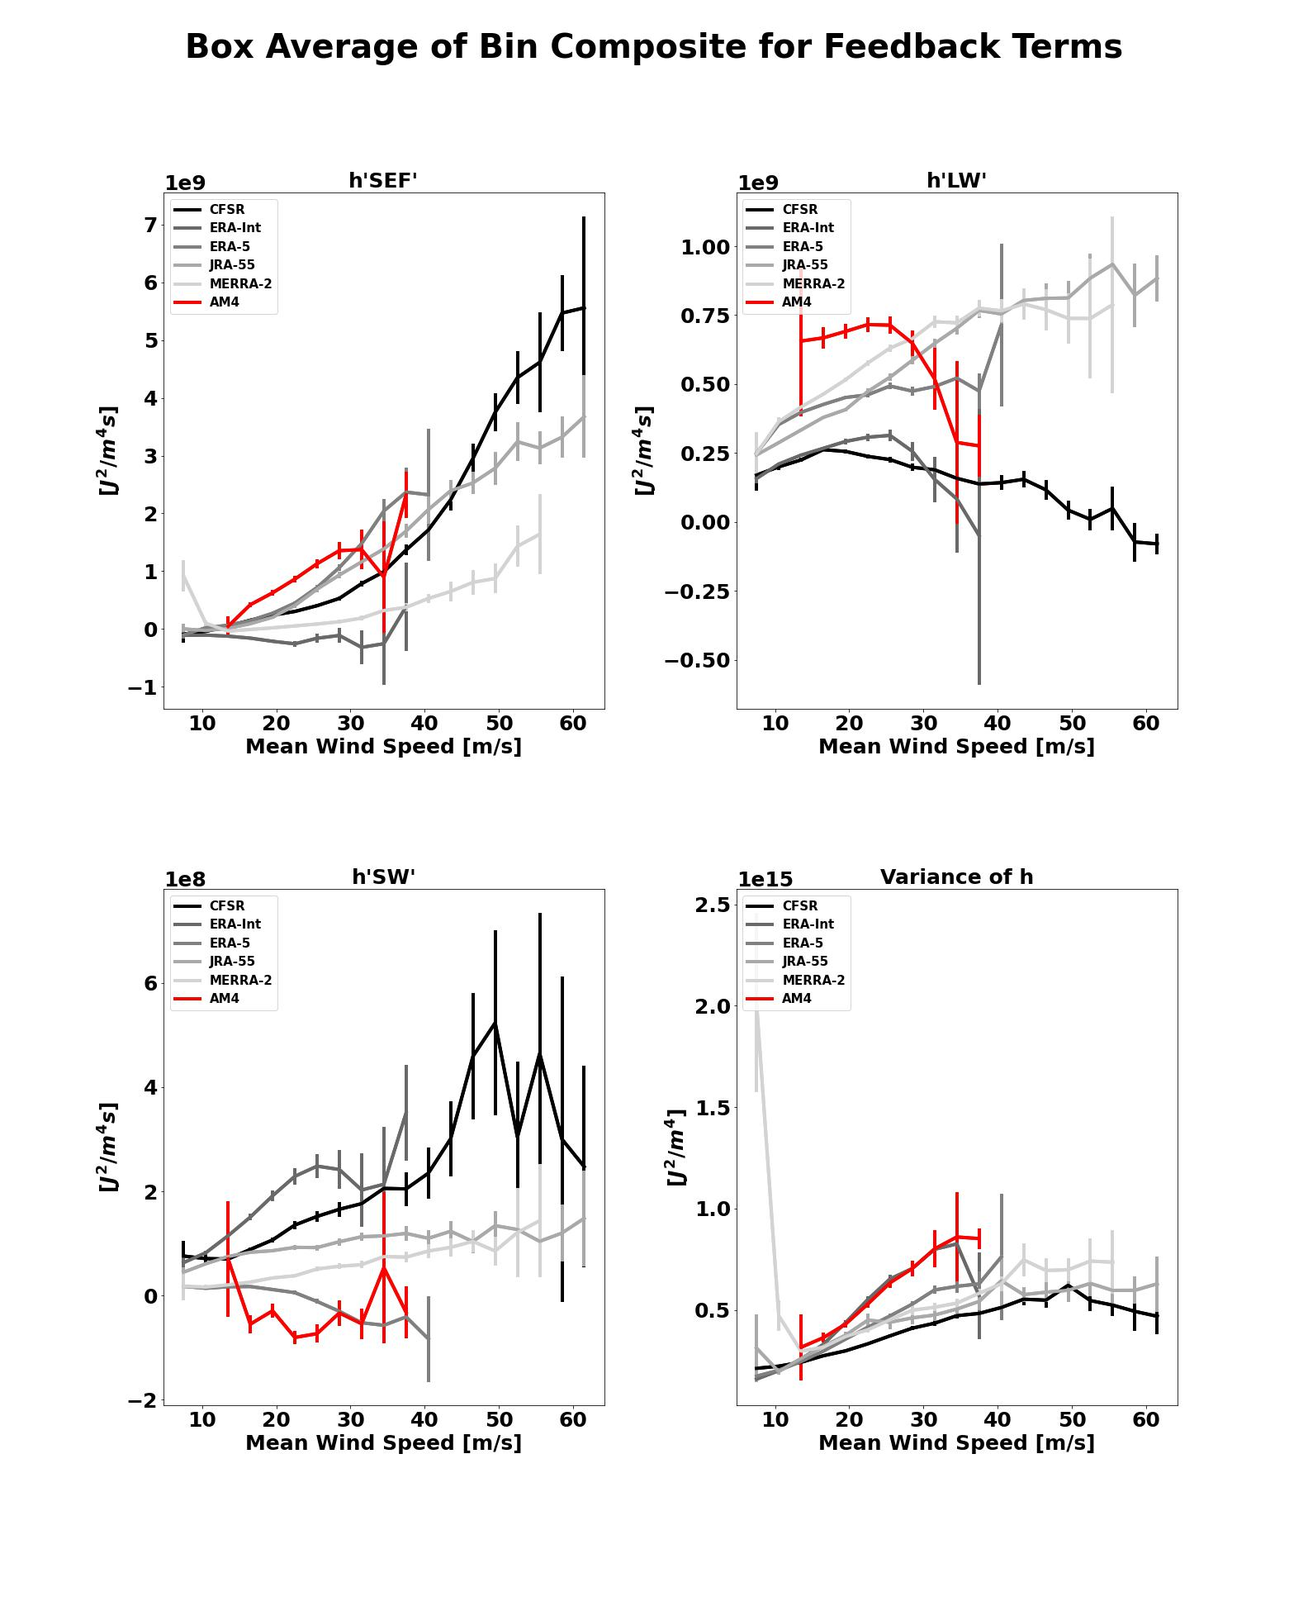
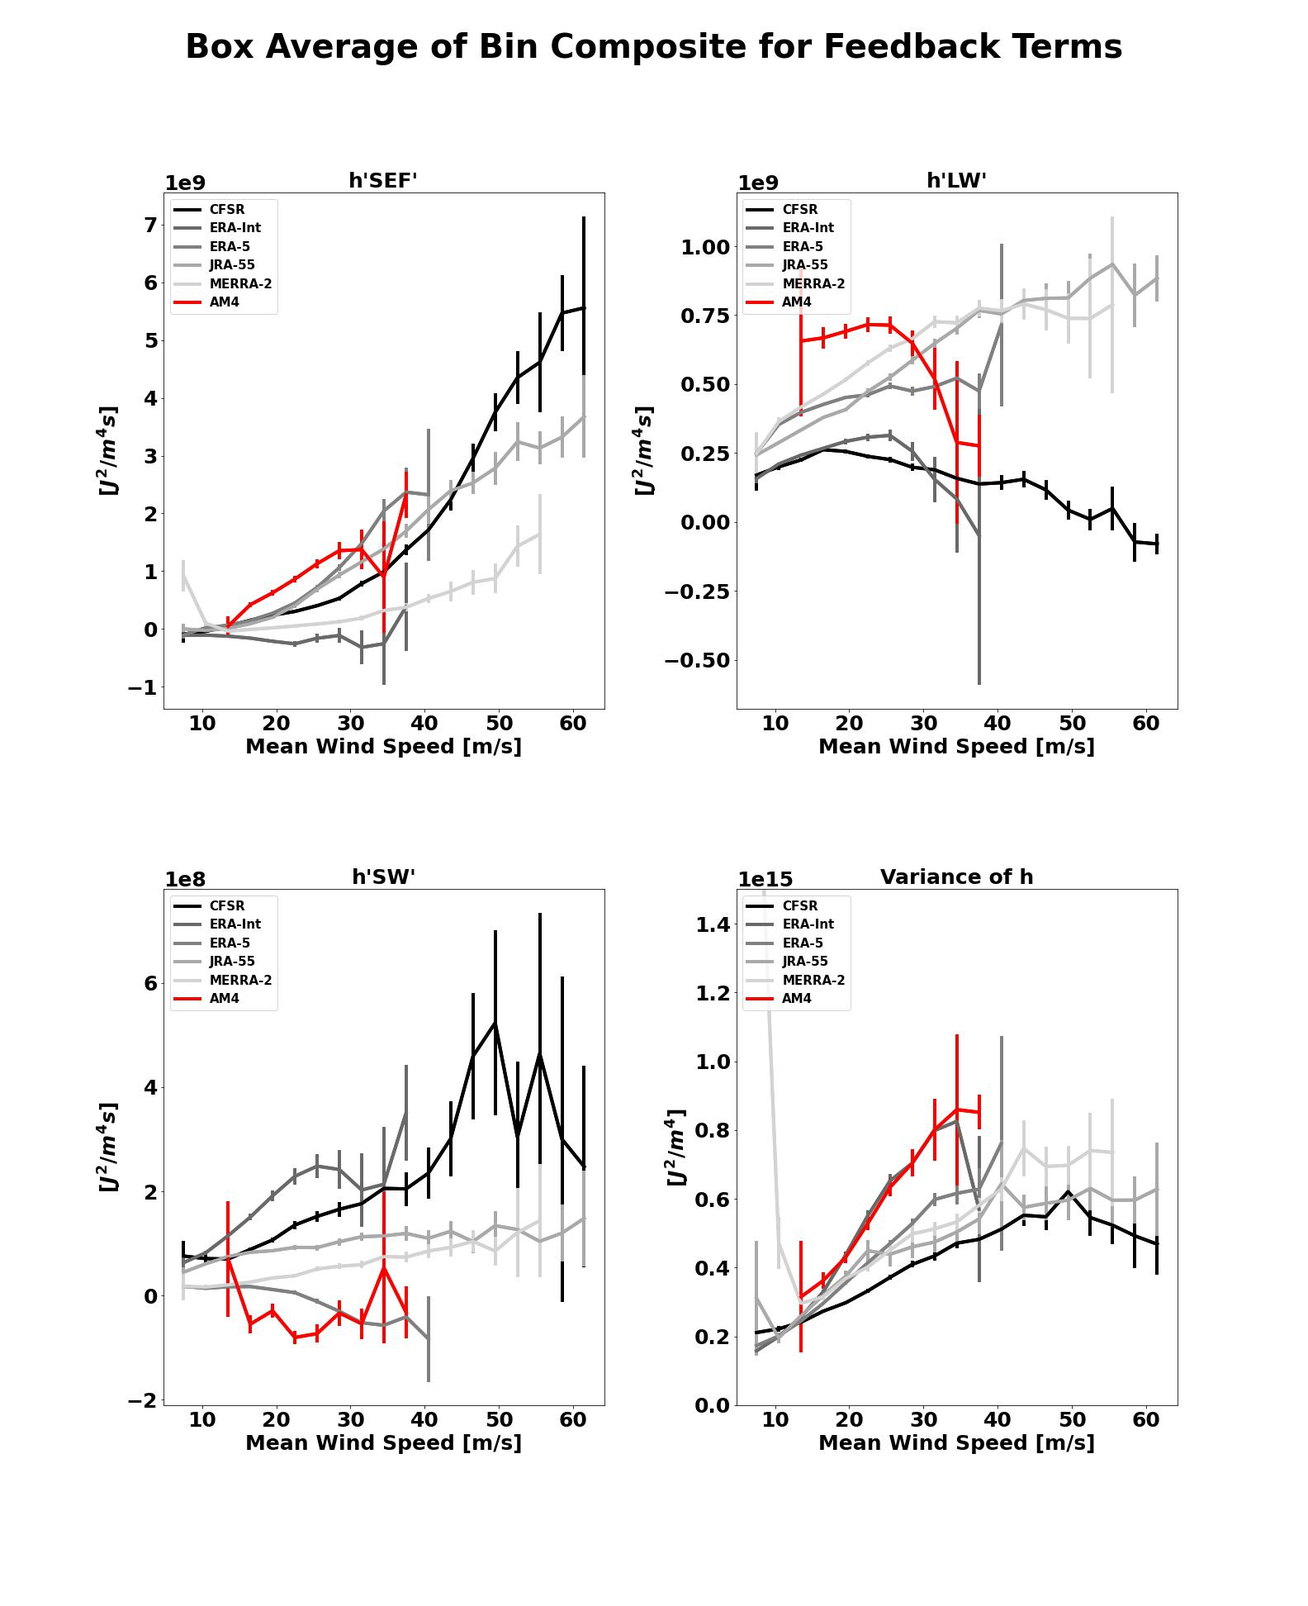
Updated .rst, plot function, and .rst jpg image

diff --git a/diagnostics/TC_MSE/Plotting_Functions.py b/diagnostics/TC_MSE/Plotting_Functions.py
@@ -568,6 +568,8 @@ def BoxAvLinePlotting():
             ax.set_title(titlevar, fontweight='bold', fontsize=25)
             ax.set_ylabel(units,fontweight='bold',fontsize=25)
             ax.set_xlabel('Mean Wind Speed [m/s]',fontweight='bold', fontsize=25)
+            if(titlevar=="Variance of h"):
+                ax.set_ylim(0,1.5e+15)
             ax.tick_params(labelsize=25)
             ax.yaxis.get_offset_text().set_fontsize(25)
 

diff --git a/diagnostics/TC_MSE/doc/TC_MSE.rst b/diagnostics/TC_MSE/doc/TC_MSE.rst
@@ -11,18 +11,16 @@
 TC MSE Variance Budget Analysis
 ===============================
 
-Last Update: 2/16/2023
+Last Update: 2/22/2023
 
-This POD computes the column-integrated mosit static energy (MSE) and its variance budget for
-TC snapshots which are generated using track data. These model snapshots are then composited and compared 
-to 5 reanalysis datasets which the same above computations have also been completed prior.
+This POD computes the column-integrated moist static energy (MSE) and terms in the budget for its spatial variance for tropical cyclones (TCs). The budget terms are computed along the tracks of individual simulated TCs and them composited as a function of the TC intensity (maximum near-surface wind speed) of each snapshot. The results are compared to equivalent calculations from 5 reanalysis datasets.
 
 .. Underline with '-'s to make a second-level heading.
 
 Version & Contact info
 ----------------------
 
-- Version/revision information: version 1 (2/16/2023)
+- Version/revision information: version 1 (2/22/2023)
 - PI: Allison Wing, Florida State University, awing@fsu.edu
 - Developer/point of contact: Jarrett Starr, Florida State University, jstarr2@fsu.edu
 - Other Contributors: Caitlin Dirkes, Suzana Camargo, Daehyun Kim
@@ -33,32 +31,22 @@ Open source copyright agreement
 ^^^^^^^^^^^^^^^^^^^^^^^^^^^^^^^
 
 The MDTF framework is distributed under the LGPLv3 license (see LICENSE.txt). 
-Unless you've distributed your script elsewhere, you don't need to change this.
+.. Unless you've distributed your script elsewhere, you don't need to change this.
 
 Functionality
 -------------
 
-Track data is read in as a .txt file to gather the center latitude and longitude position, maximum velocity (vmax), minimum sea leavel pressure, 
-and the date at each timestep. Once the track data is read in, it is then used to create tropical cyclone (TC) snapshots following the storm in 
-a 10 degree by 10 degree box. Each snapshot then has the column-integrated moist static energy (MSE) calculated as well as the longwave, shortwave,
-and surface flux feedbacks in the MSE variance budget equation. Then, the snapshots are trimmed to only account for times where the TC is intensifying
-and is equatorward of 30 degrees. The remaining snapshots are then binned by vmax in 3 meter per second bins and box-averaged values of each snapshot are 
-calculated. These binned snapshots and their box averages are composited across the bins. The composites are then used for analysis comparing to 5 reanalysis 
-datasets (ERA-5, ERA-Interim, MERRA-2, CFSR, JRA-55) which have already been run through the above framework. Plots of the composite spatial view of feedback 
-terms and anomaly of MSE for select bins are made for each reanalysis and model. The composite spatial views are azimuthally-averaged and plotted comparing across 
-different bins for each feedback term. The bin composites of box-averaged feedbacks are compared across the various vmax bins, which a feedback-normalized 
-version of this plot is made as well. The bin composites of box-averaged feedbacks are also scattered by percent of storms intensifying from one bin to another,
-which again a feedback-normalized version of this plot is also created.
+In the current implementation of the POD, pre-calcluated tropical cyclone (TC) track data is also required as an input to the POD as obs data. The POD is currently written to accept track data as a formatted .txt file. The code extracts the TC center latitude and longitude, maximum near surface wind speed (vmax), and minimum sea level pressure at each time along the track of each storm. The code then extracts the necessary variables to compute the column-integrated moist static energy (MSE) and the longwave, shortwave, and surface flux feedbacks in the budget for the spatial variance of column-integrated MSE, in 10 x 10 degree boxes along the tracks of each TC. Then, the snapshots are trimmed to only account for times where the TC is intensifying (snapshots prior to each storms lifetime maximum intensity) and is equatorward of 30 degrees. The remaining TC snapshots are then binned by vmax in 3 m/s increment, and then composited over each bin. The model composites are then compared to 5 reanalysis 
+datasets (ERA-5, ERA-Interim, MERRA-2, CFSR, JRA-55) which have already been processed through the above framework. The plots include composite TC-relative spatial maps of the feedback terms and MSE anomaly for select bins, azimuthal averages of the feedback terms for select bins, and box-averages of the feedback terms for all bins. A normalized version of the box-average plot is also included, in which the feedbacks at each grid point are normalized by the value of the box-average MSE variance for that snapshot. The normalization is performed prior to compositing. Finally, the box-averaged feedbacks and normalized box-averaged feedbacks in select bins are plotted against the percent of storms intensifying from one bin to another.
 
 When and how each of the scripts are utilized in the driver script (TC_MSE_Driver.py) is as follows:
 
-1. TC_snapshot_MSE_calc.py is called which is where the snapshotting of each TC timestep is done along with the afromentioned calculations
-and files are created and saved by year.
+1. TC_snapshot_MSE_calc.py is called first to extract the data and compute the MSE varaince budget along the tracks of all the TCs. The resulting data is saved into a file for each year. 
 
 2. Binning_and_compositing.py is called which takes all of the files that were created in step 1, concatenates them, and then bins as well as composites each
 of the snapshots and its variables by vmax. The budget variables are also box-averaged and normalized in this step as well.
 
-3. Plotting.py is called which imports all of the plotting functions that are in the Plotting_Functions.py script and generates then saves the plots that are 
+3. Plotting.py is called which imports all of the plotting functions that are in the Plotting_Functions.py script and generates and saves the plots that are 
 desired. The user may comment out any of the plotting functions that are called in the Plotting.py script they do not want. 
 
 Required programming language and libraries
@@ -75,21 +63,25 @@ The following 3-D (time-lat-lon) and 4-D (time-plev-lat-lon) variables are requi
 
 3-D Variables:
 
-Surface Downwelling LW Flux in Air, Units: W m-2, Frequency: 6-hourly
-Surface Downwelling SW Flux in Air, Units: W m-2, Frequency: 6-hourly
-Surface Upwelling LW Flux in Air, Units: W m-2, Frequency: 6-hourly
-Surface Upwelling SW Flux in Air, Units: W m-2, Frequency: 6-hourly
+Surface Downwelling Longwave Flux in Air, Units: W m-2, Frequency: 6-hourly 
+Surface Downwelling Shortwave Flux in Air, Units: W m-2, Frequency: 6-hourly
+Surface Upwelling Longwave Flux in Air, Units: W m-2, Frequency: 6-hourly
+Surface Upwelling Shortwave Flux in Air, Units: W m-2, Frequency: 6-hourly
 Surface Upward Latent Heat Flux, Units: W m-2, Frequency: 6-hourly
 Surface Upward Sensible Heat Flux, Units: W m-2, Frequency: 6-hourly
-Top of Atmosphere Outgoing LW Flux, Units: W m-2, Frequency: 6-hourly
-Top of Atmosphere Outgoing SW Flux, Units: W m-2, Frequency: 6-hourly
-Top of Atmosphere Incoming SW Flux, Units: W m-2, Frequency: 6-hourly
+Top of Atmosphere Outgoing Longwave Flux, Units: W m-2, Frequency: 6-hourly
+Top of Atmosphere Outgoing Shortwave Flux, Units: W m-2, Frequency: 6-hourly
+Top of Atmosphere Incoming Shortwave Flux, Units: W m-2, Frequency: 6-hourly
 
 4-D Variables:
 
-Air Temperature, Units: K, Frequency: 6-hourly
-Geopotential Height, Units: m, Frequency: 6-hourly
-Specific Humidity, Units: 1.0, Frequency: 6-hourly
+Air Temperature, Units: K, Frequency: 6-hourly instantaneous
+Geopotential Height, Units: m, Frequency: 6-hourly instantaneous
+Specific Humidity, Units: g g-1, Frequency: 6-hourly instantaneous
+
+In order to have sufficient samples, we recommend enough years of data to have at least 100 TCs, which is typically 2-5 years of simulation time depending on the resolution of the model.
+
+In the current implementation of the POD, pre-calcluated TC track data is also required as an input to the POD as obs data. If future versions incorporate TC tracking directly, additional model output variables will be required.
 
 References
 ----------
@@ -104,45 +96,23 @@ energy variance budget, Journal of Climate (In review).
 More about this diagnostic
 --------------------------
 
-The MSE variance budget has been shown in Wing et al. (2019) to play an important role in the development of TCs. The MSE variance budget equation is shown below:
+The MSE variance budget has been shown to capture the role of important physical processes in the development of TCs (Wing et al. 2016; Wing et al. 2019; Wing 2022). A budget for the spatial variance of column-integated MSE is given by:
 
 .. math::
 
    \frac{1}{2}\frac{\partial \hat{h}'^2}{\partial t} = \hat{h}' F'_{k} + \hat{h}' N'_{L} + \hat{h}' N'_{S} - \hat{h}'(\widehat{\vec{u}\cdot \nabla  h})'.
 
-There are three diabatic feedback terms (on the RHS) which from left to right are the surface flux, longwave, and shortwave feedback respectively. The far right 
-feedback is the advective term which we do not calculate in the framework as we focus on the three diabatic terms only. Each of the feedback terms are considered 
-sources and sinks of MSE variance. The prime notation indicates the anomaly from the box average value of the given variable. For example, each 10 by 10 degree 
-snapshot has column-integrated MSE (:math:`\hat{h}`) calculated at each grid box in the snapshot. To get the anomaly you take the box average of the snapshot and 
-take the difference between the snapshot's box average value of column-integrated MSE and the column-integrated MSE at each grid box. Anomalies are also computed 
-for the surface enthalpy flux (:math:`F'_{k}`), column longwave radiative flux convergence (:math:`N'_{L}`), and the column shortwave radiative flux 
-convergence (:math:`N'_{S}`). When these flux anomalies are multiplied by the column-integrated MSE anomaly, we then have our full diabatic feedback terms which 
-tell us the sources and sinks of MSE variance. 
+The hat notation indicates a mass-weighted column integral. There are three diabatic feedback terms (on the RHS) which from left to right are the surface flux, longwave, and shortwave feedback respectively. The far right feedback is the advective term which we do not calculate in this POD as we focus on the three diabatic terms only. Each of the feedback terms are considered sources and sinks of MSE variance. The prime notation indicates the anomaly from the average value of the given variable over a box centered on the TC. For example, for each snapshot along the track of each TC, the column-integrated MSE (:math:`\hat{h}`) is calculated as the anomaly of the column-integrated MSE at each grid point within a 10 x 10 degree box centered on the TC from its cosine-latitude weighted mean over that box. Anomalies are also computed for each of the diabatic sources and sinks of column-integrated MSE: surface enthalpy flux (:math:`F'_{k}`), column longwave radiative flux convergence (:math:`N'_{L}`), and the column shortwave radiative flux convergence (:math:`N'_{S}`).  
 
-Sources of MSE variance are seen when a feedback term is positive, or when the moist regions get more moist and dry regions get more dry. Sinks of MSE variance 
-are seen when a feedback term is negative, or in the case where dry regions are being moistened and moist regions are being dried. In the areas closest to the TC 
-center, anomalies of column-integrated MSE will tend to be above the box average value giving a positive value of :math:`\hat{h}'`. In the event that a model or 
-reanalysis has the ability to detect an eye-like feature for a TC, the winds will be more calm in the center giving rise to a smaller surface enthalpy flux and a 
-negative value of :math:`F'_{k}`. Therefore, in this scenario we would observe the surface flux feedback term being a sink of MSE variance. This can be observed in 
-the spatial composite plots of the finer horizontal resolution reanalyses that pick up on the eye-like features which we typically observe in TCs. It has been shown 
-in Wing et al. (2019) and Dirkes et al. (2022) that sources of MSE variance play an important role in TC development and its intensification to its lifetime maximum
-intensity (LMI).
+Sources of MSE variance are seen when a feedback term is positive, which occurs when an individual grid point has anomalies of column-interated MSE and anomalies of its source/sink of the same sign. That is, if there is an anomalous source of column-integrated MSE at the same place where the column-integrated MSE is already anomalously large, this will amplify the MSE anomaly and act to increase the MSE variance. Since the spatial variability of MSE in the tropical atmosphere (even in TCs) is dominated by moisture variability, an increase in MSE spatial variance reflects that the moist regions get moister and the dry regions get drier. Conversely, sinks of MSE variance are termed negative feedbacks, where dry regions are being moistened and moist regions are being dried. 
 
-The binning of these snapshots are done based on vmax so we can keep the snapshot compositing consistent across different storms. Wing et al. (2019) notes that
-if we composite based on time leading up to LMI, the strength of the feedbacks will vary in a given snapshot as the LMI and preceding vmax for each storm can be 
-vastly different between any given storm. Therefore, by binning in 3 m/s bins we maintain a consistency between snapshots in each storm which allows us to 
-composite feedbacks that do not vary greatly in strength or magnitude in a given bin.
+As an example, in the areas closest to the TC center, column-integrated MSE will tend to be above the box average value giving a positive value of :math:`\hat{h}'`. In the event that a model or reanalysis has the ability to detect an eye-like feature for a TC, the winds will be more calm in the center giving rise to a smaller surface enthalpy flux and a 
+negative value of :math:`F'_{k}`. Therefore, in this scenario we would observe the surface flux feedback term being a sink of MSE variance in that location. This can be observed in the spatial composite plots of the finer horizontal resolution reanalyses that pick up on the eye-like features in TCs. Since MSE variance increases with TC intensity, sources of MSE variance play can be interpreted as contributing to TC development (Wing et al. 2019; Dirkes et al. 2022).
 
-Prior work done in Wing et al. (2019) and Dirkes et al. (2022) note the importance of the various plots generated in this POD. The spatial composite panel plotting
-allows one to see a given model's spatial representation of the three diabatic feedback terms in comparison with the 5 reanalyses used in this POD for a given bin.
-The azimuthal mean plotting gives another vantage point as to how the composited snapshots vary with radial distance from the center by intensity bin. This shows a line plot
-of the afromentioned spatial composite plots and calculates the azimuthal average value radially outward from the center to show how the feedback changes as you distance
-from the center. What can be noted is that as you distance farther from the center, all the feedbacks tend to approach zero which results from being too far from
-the influence of the TC. Using the box-averaged values of the snapshot feedbacks, we can see how those values after being averaged across each bin vary as you increase in 
-intensity. It can be noted that as a storm increases in intensity, the areas nearest the TC become more moist so the variance of column-integrated MSE increases as you 
-increase in intensity. The three diabatic feedbacks also tend to increase as you increase in intensity. Each bin also has spread between box-averaged values used in the compositing, 
-to account for this error bars noting the 5 to 95% confidence interval are calculated and plotted for each feedback in each bin. The starting point for these box-averaged plots is 
-the 6 to 9 m/s bin and for a bin to be plotted there must be sufficient sample size (at least two) in the bins used for adequate error bars. An example of this plot can be noted below.
+In order to compare across TC snapshots of similar intensity, we bin the MSE variance and its diabatic feedbacks based on the maximum near surface wind speed of the TC (vmax). 
+Wing et al. (2019) noted that if we composite based on time leading up to LMI, the strength of the feedbacks will vary in a given snapshot as the LMI and preceding vmax for each storm can be vastly different between any given storm, and across models or reanalyses. Therefore, by binning in 3 m/s bins we can compare the feedback representation at a given intensity across different mdels or between models and reanalyses. 
+
+The plots provided as part of this POD follow those from Wing et al. (2019) and Dirkes et al. (2022). The spatial composite panel plotting allows one to see a given model's spatial representation of the three diabatic feedback terms in comparison with 5 modern reanalyses, for one intensity bin. The azimuthal mean plots reduce the dimensionality and reveal how the feedbacks vary with radial distance from the TC center in each intensity bin. What can be noted is that as the distance from the TC center increases, all the feedbacks tend to approach zero which results from being too far from the influence of the TC. Further reducing the dimensionality, the box-averaged feedback intensity bin composites show how the average of the feedback over the entire TC-centered box depend on TC intensity, and for a given intensity, the model can becompared to the reanalyses.  It can be noted that as a storm increases in intensity, the areas nearest the TC become warmer and moister, and thus the variance of column-integrated MSE increases. The three diabatic feedbacks also tend to increase with intensity. Error bars indicate the 5-95% confidence interval for the box-average feedback. The values are only plotted if there are at least two samples in that bin, though in practice more than 50 samples must be present for the error bars to be small. Thus, the first bin that is plotted is the 6 to 9 m/s bin but the models and reanalyses are best compared between intensities of 10 and 30 m/s. An example of this plot is shown below.
 
 .. _my-figure-tag:
 
@@ -150,8 +120,13 @@ the 6 to 9 m/s bin and for a bin to be plotted there must be sufficient sample s
    :align: left
    :width: 75 %
 
-The normalized version of these box-averaged feedbacks are also calculated which is done by dividing each grid point by the column-integrated MSE variance. This is done to remove 
-the effect of column-integrated MSE anomalies increasing as a storm is intensifying. This allows one to look at the feedbacks as a growth rate of column-integrated MSE per day. 
-The last plots are looking at the percent of storms that intensify from one bin to the next as a function of feedback value. This is done to try and attribute some of the TC 
-climatological differences seen in modeling and the reanalyses used to their physical processes represented. These plots also use the same error bars as the previous plots for each of 
-the normalized and non-normalized feedbacks.
+The normalized version of these box-averaged feedbacks are also calculated which is done by dividing the feedback at each grid point by the box-averaged column-integrated MSE variance, prior to doing the intensity bin composites. This is done to remove the effect of column-integrated MSE anomalies increasing as a storm is intensifying, as well as account for different baseline representations of MSE variability across different models/reanalyses. The normalized feedbacks can be interprted as a growth rate of MSE variance per day. 
+
+The final plot relates the percentage of storms that intensify from one intensity bin to the next to the value of the diabatic feedbacks at the starting intensity. This can be used to help attribute intermodel variability in TC intensification to process representation as quantified by the MSE variance budget feedbacks. For example, Wing et al. 2019 showed that models that had a larger surface flux feedback at a given intensity produced more intense TCs on average. Across reanalyses, Dirkes et al. 2022 showed that reanalyses that had a larger longwave feedback at a given intensity produced a greater fraction of TCs that intensified further. 
+
+
+Additional References
+^^^^^^^^^^^^^^^^^^^^^^^^^^^^^^^
+1. Wing, A.A., S.J. Camargo, and A.H. Sobel (2016), Role of radiative-convective feedbacks in spontaneous tropical cyclogenesis in idealized numerical simulations, J. Atmos. Sci., 73, 2633-2642, doi:10.1175/JAS-D-15-0380.1.
+
+2. Wing, A.A. (2022): Acceleration of tropical cyclone development by cloud-radiative feedbacks, J. Atmos. Sci., 79, 2285–2305, doi:10.1175/JAS-D-21-0227.1.
